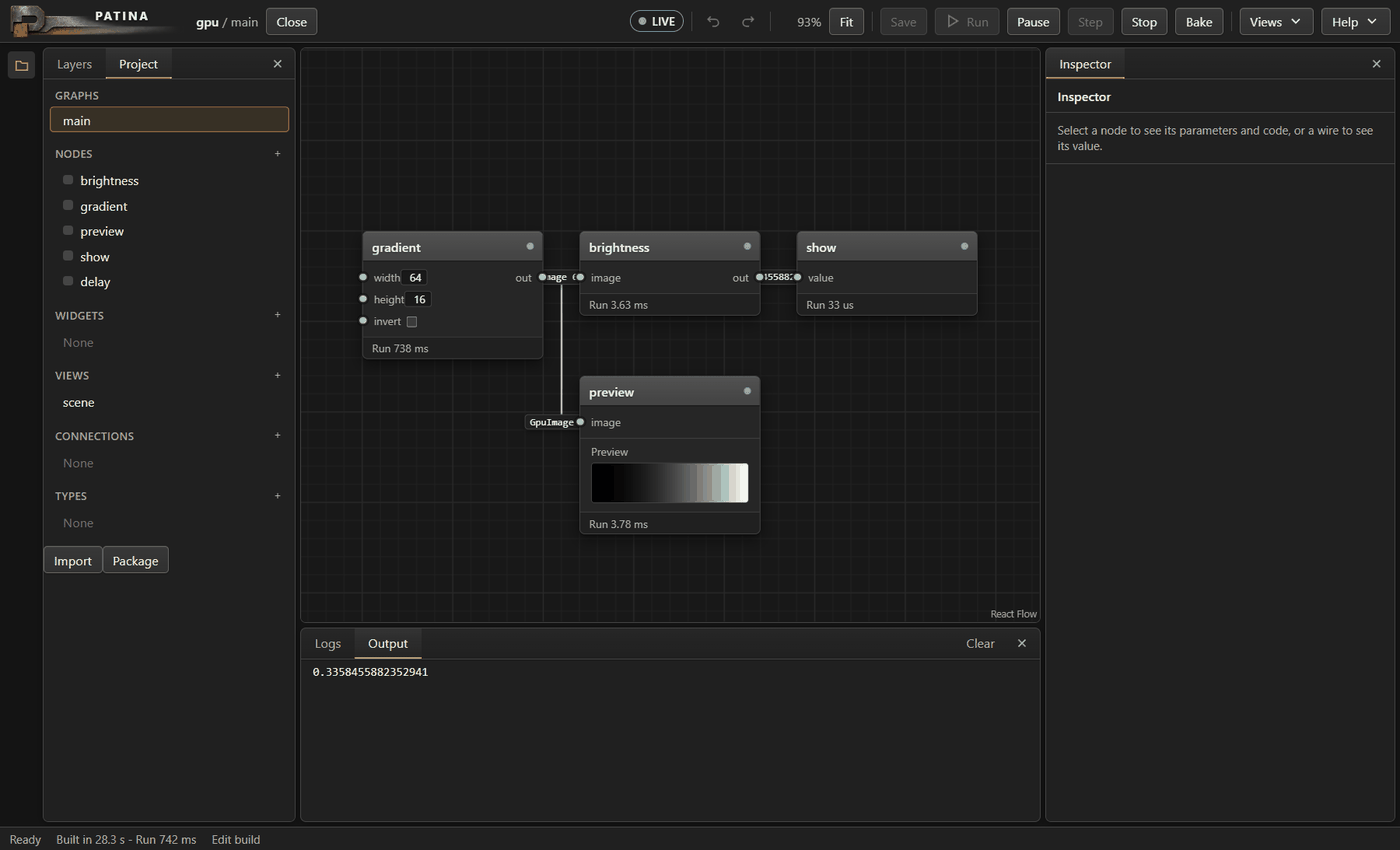
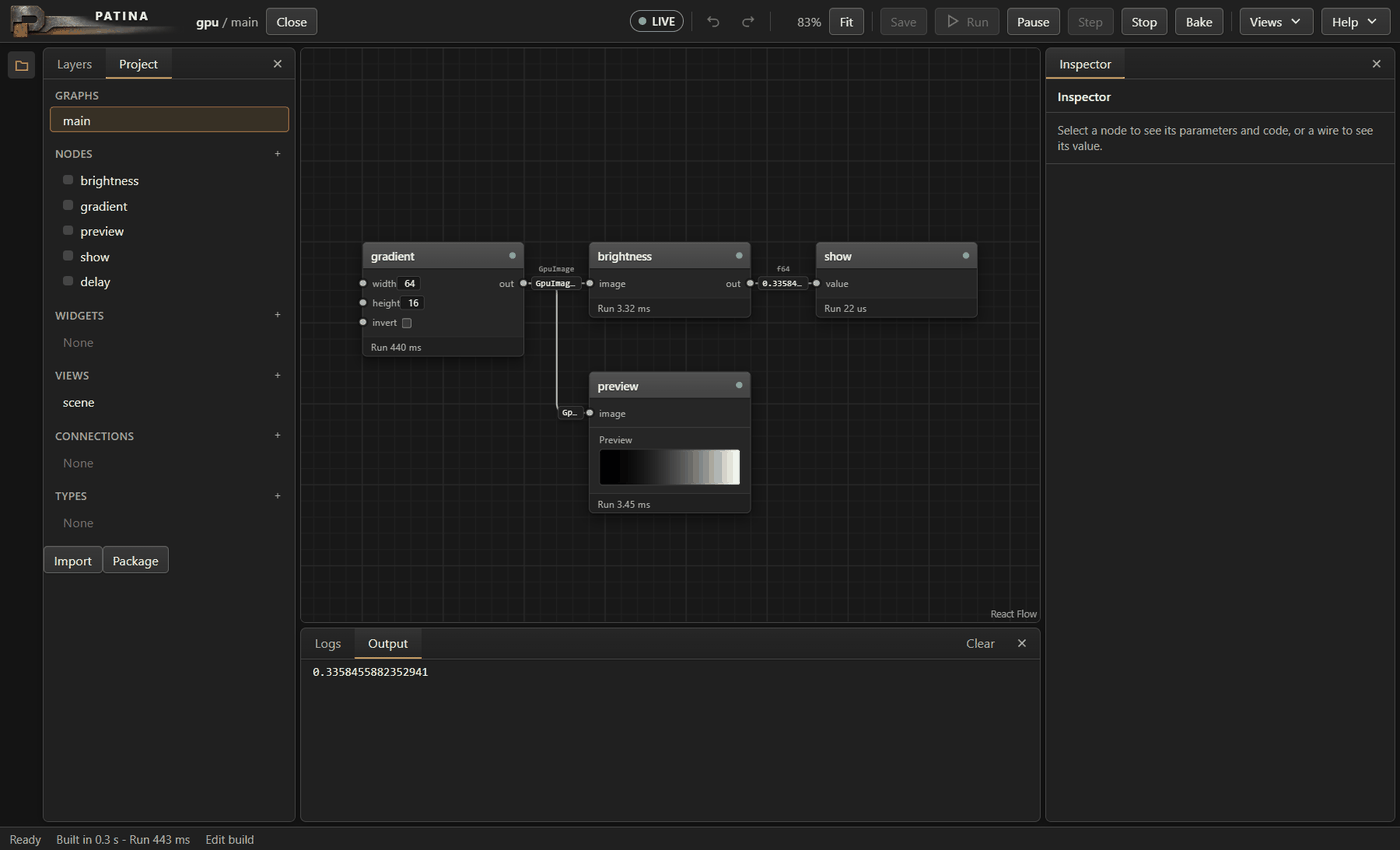
Hide covered wire labels and cut long value badges
- A wire label hides when a node body, the badge of another wire or a
  label of a higher rank covers it. The rank from high to low is: the
  selected wire, a bus, a wire name, a type label.
- A value badge cuts its text to the room between the nodes, but keeps
  at least 32 px. A selected wire shows all of its badge.
- Give the hello and gpu graphs the column gap of Arrange, and take new
  README images.
- Record the agent decisions in spec 15.9.

Changed region(s): [[0.2457, 0.2447, 0.7064, 0.4282], [0.3686, 0.4282, 0.5529, 0.6424], [0.0614, 0.9788, 0.1843, 1.0]]

diff --git a/crates/patina-editor/frontend/src/WireLayer.tsx b/crates/patina-editor/frontend/src/WireLayer.tsx
@@ -18,6 +18,7 @@ import { EdgeLabelRenderer, useReactFlow, useStore, useStoreApi, ViewportPortal,
 import type { Corners, Edit, KindInfo, Point, Style, Value } from './api';
 import { HoverContext, PITCH, familyOf, hoveredLane, kindOf, laneAt, laneTip, wireBits } from './bus';
 import { FAR_ZOOM, GlWires } from './gl';
+import type { Labels } from './labels';
 import type { Router } from './route';
 import { anchor, insertAt, shape, wirePath, type WireStore } from './wires';
 
@@ -33,6 +34,8 @@ export interface WireTools {
   store: WireStore;
   /** The automatic routes of the wires with the graph default look (15.9). */
   router: Router;
+  /** The wire labels that something covers (15.9). */
+  labels: Labels;
   onEdit: (edit: Edit) => Promise<void>;
   editable: boolean;
   /** Each live value by output (15.9), and true when it is from an old run. */
@@ -45,7 +48,7 @@ export interface WireTools {
 export const WireContext = createContext<WireTools | null>(null);
 
 export function WireEdge({ id, sourceX, sourceY, targetX, targetY, selected, data }: EdgeProps<Edge<WireData>>) {
-  const { store, router, onEdit, editable, values, stale, kinds } = useContext(WireContext)!;
+  const { store, router, labels, onEdit, editable, values, stale, kinds } = useContext(WireContext)!;
   const hover = useContext(HoverContext);
   const flow = useReactFlow();
   // The route during a drag. It stays until the edit gives the new graph, so the wire does not jump back.
@@ -103,6 +106,20 @@ export function WireEdge({ id, sourceX, sourceY, targetX, targetY, selected, dat
   const room = selected ? Infinity : fit;
   const label = room < 24 ? undefined : ribbon ? (far ? `/ ${n}` : `${bus}[${n - 1}:0] / ${n}`) : near ? (data!.name ?? data!.ty) : undefined;
   const above = 12 + (ribbon && !far ? ((n - 1) * PITCH) / 2 : 0);
+  const badge = value !== undefined && near ? value.text : undefined;
+  // A badge cuts its text to the room of the label, but keeps room for a short value.
+  const badgeRoom = selected ? undefined : Math.max(fit, 32);
+  const named = data!.name !== undefined;
+  // The boxes of the label and the badge, from the Consolas sizes of canvas.css.
+  useLayoutEffect(() => {
+    const w = label === undefined ? 0 : Math.min(room, label.length * 5.5);
+    const bw = badge === undefined ? 0 : Math.min(badgeRoom ?? Infinity, badge.length * 6.05 + 12);
+    const box = label === undefined ? null : { l: mx - w / 2, t: my - above - 13, r: mx + w / 2, b: my - above };
+    const badgeBox = badge === undefined ? null : { l: mx - bw / 2, t: my - 9, r: mx + bw / 2, b: my + 9 };
+    labels.set(id, box, badgeBox, selected ? -1 : ribbon ? 0 : named ? 1 : 2);
+  }, [labels, id, label, badge, badgeRoom, room, mx, my, above, selected, ribbon, named]);
+  useLayoutEffect(() => () => labels.remove(id), [labels, id]);
+  const covered = useSyncExternalStore(labels.subscribe, () => labels.hidden(id));
   // The lane under the pointer (15.9). The hit area covers the full ribbon.
   const leave = () => {
     if (hover.get()?.wire === id) hover.set(null);
@@ -128,7 +145,7 @@ export function WireEdge({ id, sourceX, sourceY, targetX, targetY, selected, dat
           </div>
         )}
         {/* The type label or the bus label is above the badge (15.9). */}
-        {label && (
+        {label && !covered && (
           <div
             className={`wire-type${data!.name ? ' named' : ''}${selected ? ' selected' : ''}`}
             title={data!.ty}
@@ -137,12 +154,12 @@ export function WireEdge({ id, sourceX, sourceY, targetX, targetY, selected, dat
             {label}
           </div>
         )}
-        {value !== undefined && near && (
+        {badge !== undefined && (
           <div
             className={`wire-value${old ? ' stale' : ''}${selected ? ' selected' : ''}`}
-            style={{ transform: `translate(${mx}px, ${my}px) translate(-50%, -50%)` }}
+            style={{ transform: `translate(${mx}px, ${my}px) translate(-50%, -50%)`, maxWidth: badgeRoom }}
           >
-            {value.text}
+            {badge}
           </div>
         )}
       </EdgeLabelRenderer>

diff --git a/crates/patina-editor/frontend/src/labels.ts b/crates/patina-editor/frontend/src/labels.ts
@@ -1,0 +1,83 @@
+// The labels above the wires, which hide when something covers them (spec 15.9).
+
+import type { Rect } from './route';
+
+interface Entry {
+  id: string;
+  label: Rect | null;
+  badge: Rect | null;
+  /** A lower rank shows first. A label with a rank below 0 always shows. */
+  rank: number;
+  hidden: boolean;
+}
+
+const overlap = (a: Rect, b: Rect) => a.l < b.r && b.l < a.r && a.t < b.b && b.t < a.b;
+
+/**
+ * The wire labels that hide. A label hides when a value badge, a node body or a label of a lower
+ * rank covers it. The sockets and the pin tooltips still show the names.
+ */
+export class Labels {
+  private entries = new Map<string, Entry>();
+  private rects: readonly Rect[] = [];
+  private order: Entry[] = [];
+  private listeners = new Set<() => void>();
+  private queued = false;
+
+  /** The label box and the badge box of a wire, in flow coordinates. */
+  set(id: string, label: Rect | null, badge: Rect | null, rank: number) {
+    const e = this.entries.get(id);
+    if (e) Object.assign(e, { label, badge, rank });
+    else this.entries.set(id, { id, label, badge, rank, hidden: false });
+    this.queue();
+  }
+
+  remove(id: string) {
+    if (this.entries.delete(id)) this.queue();
+  }
+
+  setObstacles(rects: readonly Rect[]) {
+    this.rects = rects;
+    this.queue();
+  }
+
+  hidden = (id: string): boolean => this.entries.get(id)?.hidden ?? false;
+
+  subscribe = (f: () => void) => {
+    this.listeners.add(f);
+    return () => void this.listeners.delete(f);
+  };
+
+  private queue() {
+    if (this.queued) return;
+    this.queued = true;
+    queueMicrotask(() => {
+      this.queued = false;
+      this.compute();
+    });
+  }
+
+  /** Shows the labels in the order of their rank. Each label hides when a shown box covers it. */
+  compute() {
+    const order = this.order;
+    order.length = 0;
+    let changed = false;
+    for (const e of this.entries.values()) {
+      if (e.label) order.push(e);
+      else if (e.hidden) [e.hidden, changed] = [false, true];
+    }
+    order.sort((a, b) => a.rank - b.rank || (a.id < b.id ? -1 : a.id > b.id ? 1 : 0));
+    for (let i = 0; i < order.length; i++) {
+      const e = order[i];
+      const box = e.label!;
+      let hide = false;
+      if (e.rank >= 0) {
+        hide = this.rects.some((r) => overlap(box, r));
+        for (const o of this.entries.values()) if (!hide && o !== e && o.badge) hide = overlap(box, o.badge);
+        for (let j = 0; j < i && !hide; j++) hide = !order[j].hidden && overlap(box, order[j].label!);
+      }
+      if (e.hidden !== hide) [e.hidden, changed] = [hide, true];
+    }
+    if (changed) for (const f of this.listeners) f();
+  }
+}

diff --git a/crates/patina-editor/frontend/src/GraphView.tsx b/crates/patina-editor/frontend/src/GraphView.tsx
@@ -25,6 +25,7 @@ import { savedViewport, saveViewport } from './Dock';
 import { NodeEdit, NodeView, PortView, infoOf, nodeState, outputType, valueStale, type PatinaNode, type PortNode, type RunState } from './NodeView';
 import { matchPin } from './palette';
 import { WireContext, WireEdge, WireLayer, type WireData } from './WireLayer';
+import { Labels } from './labels';
 import { Router } from './route';
 import { WireStore } from './wires';
 
@@ -219,6 +220,7 @@ export function GraphView({ view, run, guis, onEdit, onSelect, focus, onOpen, on
   const [edges, setEdges] = useState<Edge<WireData>[]>([]);
   const [wires] = useState(() => new WireStore());
   const [router] = useState(() => new Router());
+  const [labels] = useState(() => new Labels());
   const [hover] = useState(() => new HoverStore());
   const [glOk, setGlOk] = useState(true);
   // The screen point of the open Add node palette, with the pin of a wire that it ends, and the
@@ -230,8 +232,8 @@ export function GraphView({ view, run, guis, onEdit, onSelect, focus, onOpen, on
   // The saved pan and zoom of the graph (15.2), or a fit when there is none.
   const [viewport] = useState(() => savedViewport(view.graphName));
   const tools = useMemo(
-    () => ({ store: wires, router, onEdit, editable: view.trusted, values: run.values, stale: (from: string) => valueStale(run, from), kinds: view.kinds }),
-    [wires, router, onEdit, view.trusted, run, view.kinds],
+    () => ({ store: wires, router, labels, onEdit, editable: view.trusted, values: run.values, stale: (from: string) => valueStale(run, from), kinds: view.kinds }),
+    [wires, router, labels, onEdit, view.trusted, run, view.kinds],
   );
   // The node bodies that the automatic routes go around (15.9).
   useLayoutEffect(() => {
@@ -239,8 +241,10 @@ export function GraphView({ view, run, guis, onEdit, onSelect, focus, onOpen, on
       const { width, height } = n.measured ?? {};
       return width && height ? [{ l: n.position.x, t: n.position.y, r: n.position.x + width, b: n.position.y + height }] : [];
     };
-    router.setObstacles(nodes.flatMap(body));
-  }, [nodes, router]);
+    const rects = nodes.flatMap(body);
+    router.setObstacles(rects);
+    labels.setObstacles(rects);
+  }, [nodes, router, labels]);
 
   useEffect(() => setNodes((prev) => buildNodes(view, run, guis, prev)), [view, run, guis]);
   useEffect(() => setEdges((prev) => buildEdges(view, prev)), [view]);

diff --git a/crates/patina-editor/frontend/src/labels.test.ts b/crates/patina-editor/frontend/src/labels.test.ts
@@ -1,0 +1,34 @@
+import { test } from 'node:test';
+import assert from 'node:assert/strict';
+import { Labels } from './labels.ts';
+import type { Rect } from './route.ts';
+
+const box = (l: number, t: number, w = 40, h = 13): Rect => ({ l, t, r: l + w, b: t + h });
+
+test('a covered wire label hides, by its rank', () => {
+  const labels = new Labels();
+  let calls = 0;
+  labels.subscribe(() => calls++);
+  labels.setObstacles([box(500, 0, 100, 100)]);
+  labels.set('bus', box(0, 0), null, 0);
+  labels.set('type', box(10, 5), null, 2);
+  labels.set('badge', box(200, 0), box(100, 2), 2);
+  labels.set('node', box(520, 20), null, 1);
+  labels.set('far', box(300, 300), null, 2);
+  labels.compute();
+  // The bus label covers the type label, a badge covers the label at 100, and a node covers the label at 520.
+  assert.deepEqual(['bus', 'type', 'badge', 'node', 'far'].map(labels.hidden), [false, true, false, true, false]);
+  labels.set('cover', box(90, 0), null, 2);
+  labels.compute();
+  assert.equal(labels.hidden('cover'), true);
+  // A selected label always shows. A notice goes out only on a change.
+  labels.set('cover', box(90, 0), null, -1);
+  labels.compute();
+  assert.equal(labels.hidden('cover'), false);
+  const before = calls;
+  labels.compute();
+  assert.equal(calls, before);
+  labels.remove('bus');
+  labels.compute();
+  assert.equal(labels.hidden('type'), false);
+});

diff --git a/docs/spec/15-editor.md b/docs/spec/15-editor.md
@@ -436,6 +436,7 @@ A connection shows the value that it carries while the graph runs. Connections a
 - Each lane says what it is. (Agent decision, 2026-11-16, after the owner asked that a lit lane show what it connects to. The owner can change it.)
   - The name of a bus is the wire name, else the name of the source pin of a subgraph use, else the name of the target input, else the label of the kind. The label above the ribbon is "name[n-1:0] / n". The **Inspector** shows a **Name** field for the selected wire. A wire of one line shows its name in place of the type label, for example the opcode lines `JMP` and `JZ` of a CPU. Agent decision of 2026-11-16. The owner can change it.
   - The label above a wire fits between the nodes at its two ends and between the corners that turn up into it. It cuts its text with "...". A label with less than 24 px hides, because the sockets show the names. A selected wire shows all of its label. (Agent decision, 2026-11-16. The owner can change it.)
+  - A label hides when a node body, the value badge of another wire or a label of a higher rank covers it. The rank from high to low is: the selected wire, a bus, a wire name, a type label. Of two labels with the same rank, the label of the wire with the lower id shows, so the choice does not change between frames. (Agent decision, 2026-11-16. The owner can change it.)
   - The name of a lane is its name in the kind (6.3), else its bit number.
   - An input or output of a type whose kind gives `lanes` is a bus socket. The socket shows the pin name and the lane range, for example "data[7:0]", and one contact for each lane at a pitch of 12 px, lane 0 at the top. Each contact shows the lane name and an LED of the lane state.
   - A public pin of such a type in an open subgraph (6.4) is a bus socket too. It shows the lanes of the value at that pin of the use. (Agent decision, 2026-11-16. The owner can change it.)
@@ -444,7 +445,7 @@ A connection shows the value that it carries while the graph runs. Connections a
   - With a color family (6.3), a lit lane and its LED have the family color, and an off lane has a dark tint of it. Amber, yellow and red stay for the selection, the warnings and the errors.
   - At a far zoom, a socket keeps its size and shows no contacts.
 - A stale value (15.3) shows dim, on the wire as on the node.
-- The badge of a wire with one value is at the middle of the default curve, or at the middle of the longest horizontal segment of a route. A route with no horizontal segment uses its longest segment. The label is above the badge, so it is never on a vertical leg. A route point never covers the badge. (Agent decision, 2026-11-15, changed 2026-11-16. The owner can change it.)
+- The badge of a wire with one value is at the middle of the default curve, or at the middle of the longest horizontal segment of a route. A route with no horizontal segment uses its longest segment. The label is above the badge, so it is never on a vertical leg. A route point never covers the badge. The badge cuts its text with "..." to the room of the label, but it keeps at least 32 px. A selected wire shows all of the badge. (Agent decision, 2026-11-15, changed 2026-11-16. The owner can change it.)
 - The badge shows the text of the value by the viewer rules (5.3). The engine cuts the badge text at 64 bytes, and the **Inspector** shows the full text. The badge cuts its text at 160 px with "...", and a selected wire shows all of the badge text. A stale badge has dim text and a dashed border. A failed build removes the badges. (Agent decision, 2026-11-15. The owner can change it.)
 - Live values follow the viewer rules (5.3, 9.2). The editor reads them at the display rate at most (15.6), and a read never changes the run.
 - A type with no lane description (6.3) shows one line and its type label. The editor does not make lanes from the size of a value or the length of a list.

diff --git a/STATUS.md b/STATUS.md
@@ -85,6 +85,11 @@ The model is synchronous: one frame is one clock step, and a delay node is a D f
 24. Done: connection work in the editor (15.2). The **Project** panel has the groups
     **Connections** and **Types**, each with a **+** button and a start crate. A click opens
     the code in the **Inspector**. **Add crate** adds a type folder by its path.
+25. Done: each example has a `README.md` with images from `patina --shot`. The `computer` and
+    `gpu` READMEs are first versions.
+26. Done: a value badge cuts its text to the room between the nodes, as the label does, but
+    keeps at least 32 px. Before, a long badge on a short wire covered the pin names. The
+    `hello` and `gpu` graphs now have the column gap of **Arrange**.
 
 ### Checked
 
@@ -820,7 +825,8 @@ To run the editor from a checkout:
   and its border is dashed.
 - Each wire shows the Rust type of its value in a small label above the badge (15.9), for
   example `f64`. A pin shows its type in a tooltip. The **Inspector** shows the type of the
-  selected wire.
+  selected wire. A label hides when a node body, the badge of another wire or a label of a
+  higher rank covers it. A selected wire always shows its label.
 - A project can have connection kinds in `connections/<name>/` (6.3). A `#[connection]`
   function takes the value of a type and gives its lanes and a label. After a run, a wire of
   that type draws as a bus of lanes, the most significant lane first, with a label such as
